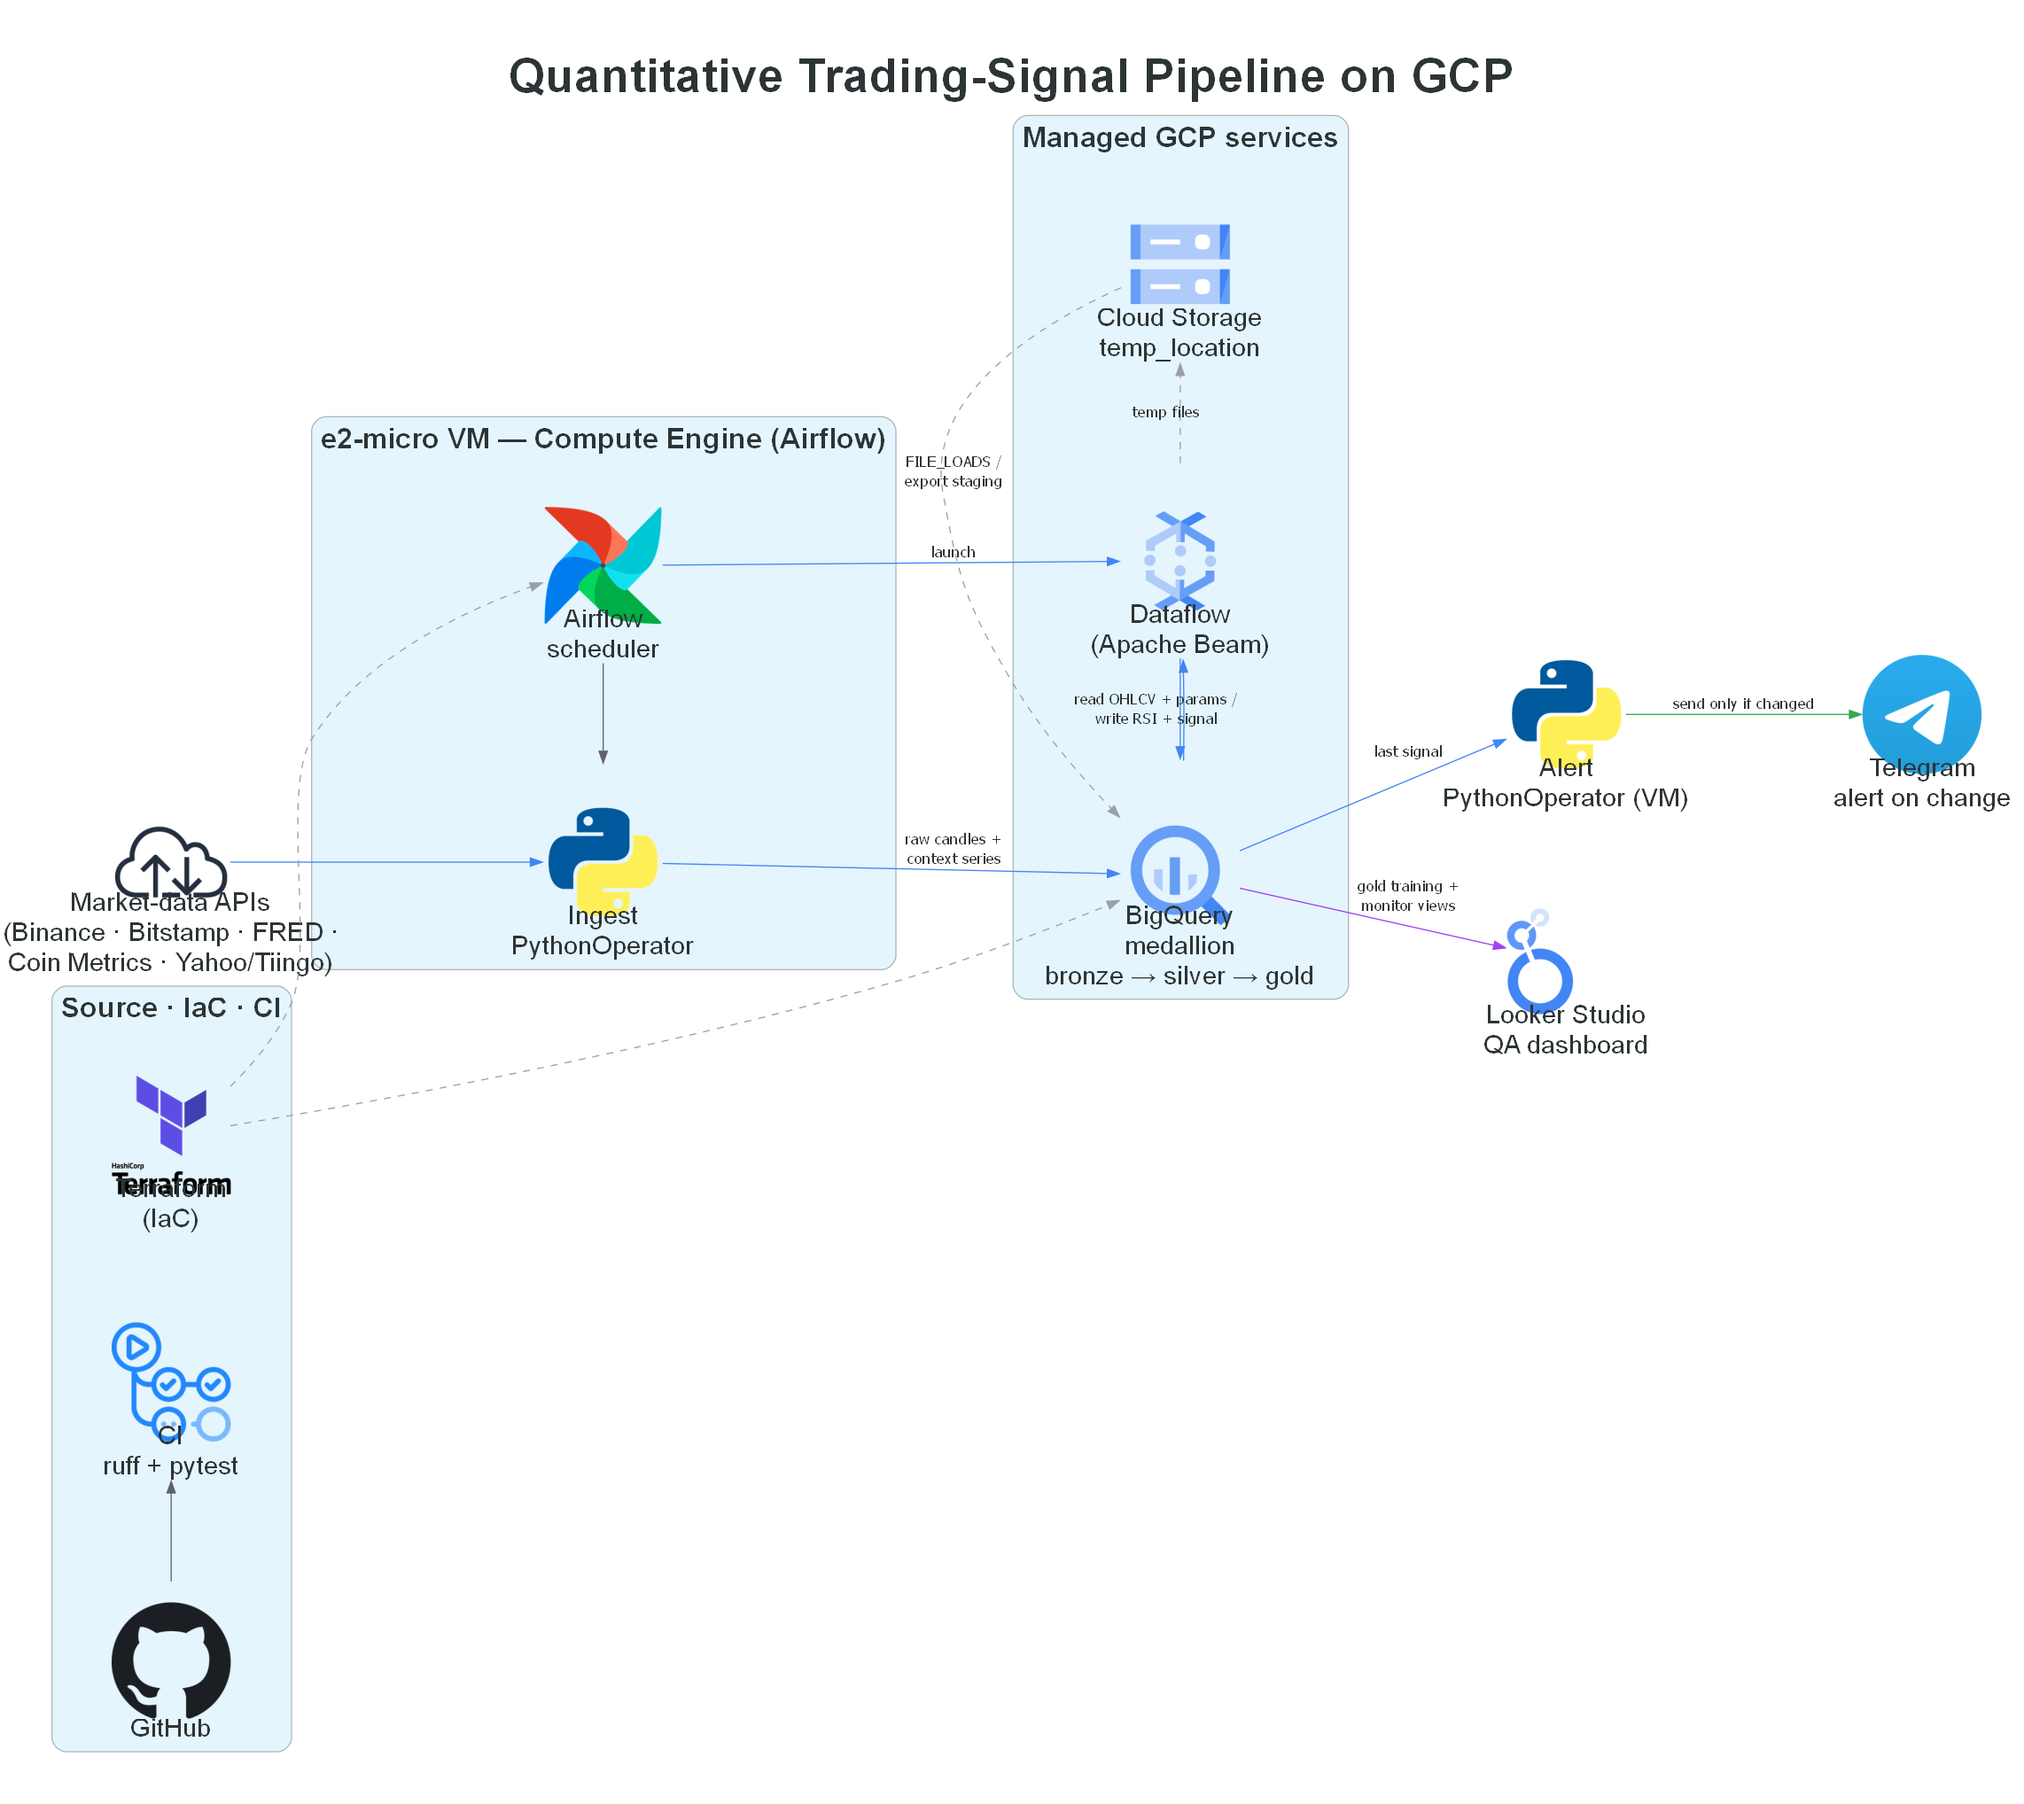
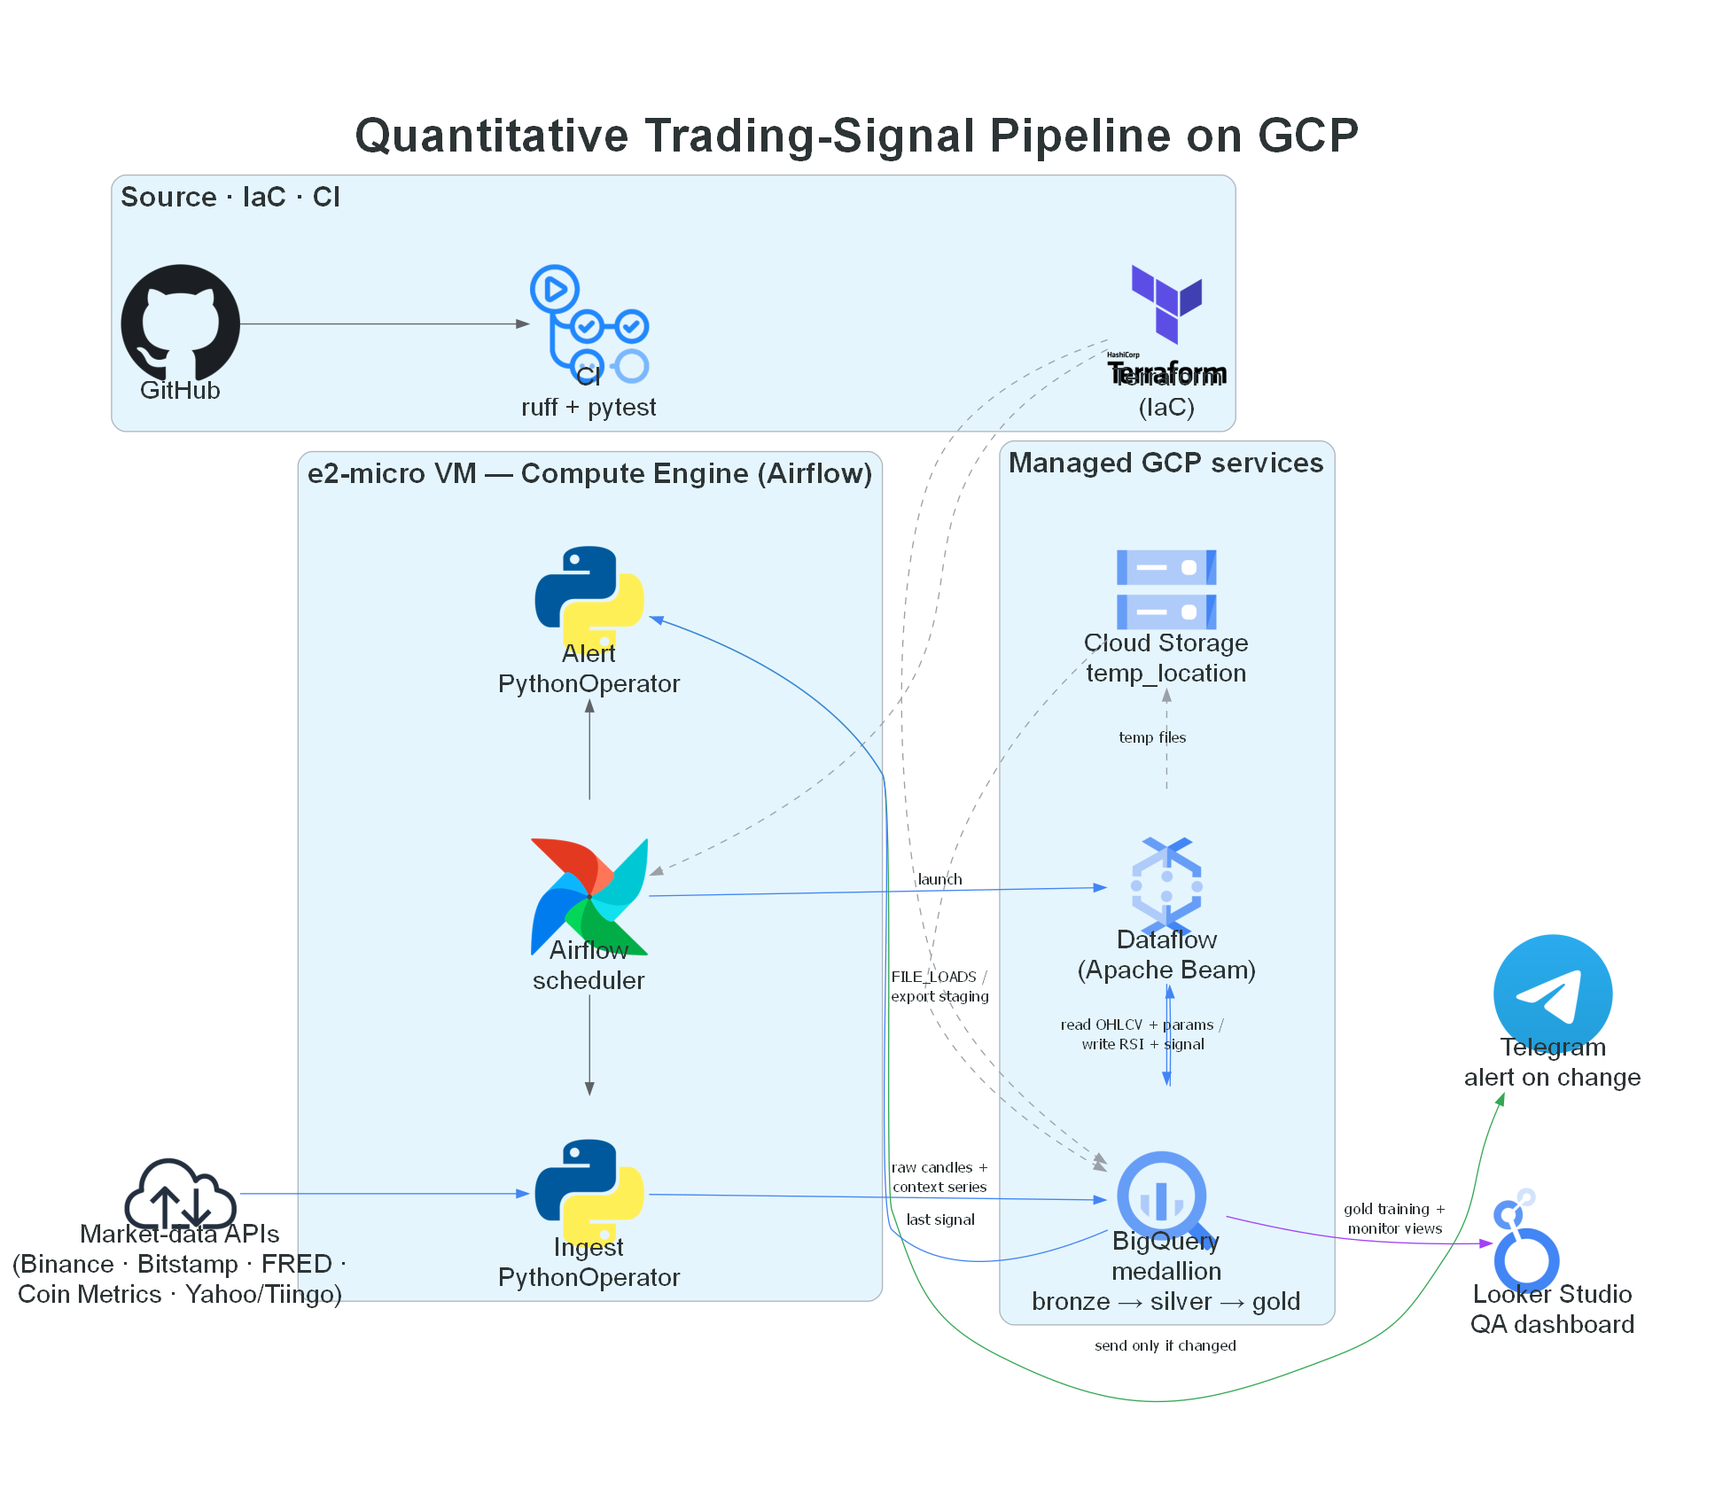
Diagram layout: IaC band on top, Alert inside the Airflow VM cluster
- Move the Source/IaC/CI cluster to a horizontal band on top, provisioning
  the rest via the dashed Terraform edges.
- Put the Alert PythonOperator back inside the e2-micro VM (Airflow) cluster
  where it actually runs; its signal edges use constraint=false so the
  cluster box no longer spans ranks and overlaps the GCP one.
- Increase pad so the left-most node label is no longer clipped.

diff --git a/assets/architecture.py b/assets/architecture.py
@@ -39,7 +39,7 @@ GRAPH_ATTR = {
     "fontsize": "40",
     "labelloc": "t",
     "bgcolor": "white",
-    "pad": "0.5",
+    "pad": "1.2",
     "nodesep": "0.6",
     "ranksep": "1.1",
     "splines": "spline",
@@ -68,39 +68,45 @@ with Diagram(
     node_attr=NODE_ATTR,
     edge_attr=EDGE_ATTR,
 ):
+    # Source / IaC / CI — declared first and chained left→right so it renders as
+    # a horizontal band on top, provisioning the rest (dashed edges below).
+    with Cluster("Source · IaC · CI", graph_attr=CLUSTER_ATTR):
+        repo = Github("GitHub")
+        ci = GithubActions("CI\nruff + pytest")
+        iac = Terraform("Terraform\n(IaC)")
+        repo >> Edge(color="#5f6368") >> ci          # push triggers CI
+        ci >> Edge(style="invis") >> iac             # layout only: keep the row horizontal
+
     sources = Internet("Market-data APIs\n(Binance · Bitstamp · FRED ·\nCoin Metrics · Yahoo/Tiingo)")
 
     with Cluster("e2-micro VM — Compute Engine (Airflow)", graph_attr=CLUSTER_ATTR):
         scheduler = Airflow("Airflow\nscheduler")
         ingest = Python("Ingest\nPythonOperator")
+        # Alert is also a PythonOperator orchestrated by Airflow on the VM.
+        alert = Python("Alert\nPythonOperator")
         scheduler >> Edge(color="#5f6368", constraint="false") >> ingest
+        scheduler >> Edge(color="#5f6368", constraint="false") >> alert
 
     with Cluster("Managed GCP services", graph_attr=CLUSTER_ATTR):
         bq = Bigquery("BigQuery\nmedallion\nbronze → silver → gold")
         df = Dataflow("Dataflow\n(Apache Beam)")
         gcs = GCS("Cloud Storage\ntemp_location")
 
-    # Alert is also a PythonOperator on the VM, but kept outside the VM cluster
-    # so the cluster box does not span ranks (it sits late in the flow).
-    alert = Python("Alert\nPythonOperator (VM)")
     telegram = Telegram("Telegram\nalert on change")
-    # Gold training/monitor views consumed by a Looker Studio dashboard.
-    looker = Looker("Looker Studio\nQA dashboard")
-
-    with Cluster("Source · IaC · CI", graph_attr=CLUSTER_ATTR):
-        repo = Github("GitHub")
-        ci = GithubActions("CI\nruff + pytest")
-        iac = Terraform("Terraform\n(IaC)")
-        repo >> Edge(color="#5f6368", constraint="false") >> ci
+    looker = Looker("Looker Studio\nQA dashboard")  # consumes the gold views
 
     # --- Data flow: constraining edges define the left→right ranks ---
-    #   sources | scheduler+ingest | bq+df+gcs | alert | telegram
+    #   sources | VM (scheduler+ingest+alert) | bq+df+gcs | telegram+looker
     sources >> DATA >> ingest
     ingest >> Edge(color="#4285F4", label="raw candles +\ncontext series") >> bq
     scheduler >> Edge(color="#4285F4", label="launch") >> df
-    bq >> Edge(color="#4285F4", label="last signal") >> alert
-    alert >> Edge(color="#34A853", label="send only if changed") >> telegram
     bq >> Edge(color="#A142F4", label="gold training +\nmonitor views") >> looker
+
+    # Alert stays inside the VM cluster, so its signal edges don't constrain rank
+    # (otherwise the cluster box would span ranks and overlap the GCP one).
+    bq >> Edge(color="#4285F4", label="last signal", constraint="false") >> alert
+    alert >> Edge(color="#34A853", label="send only if changed", constraint="false") >> telegram
+    bq >> Edge(style="invis") >> telegram   # layout only: anchor telegram to the right
 
     # --- Same-rank / return / provisioning edges: constraint="false" ---
     df >> Edge(color="#4285F4", label="read OHLCV + params /\nwrite RSI + signal", constraint="false") >> bq
